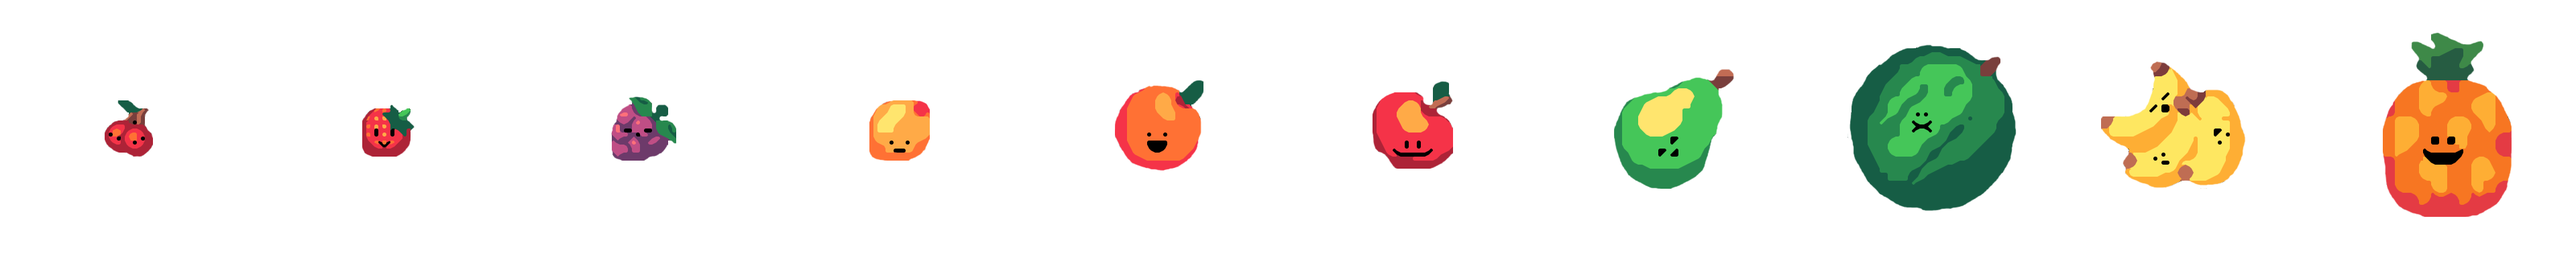
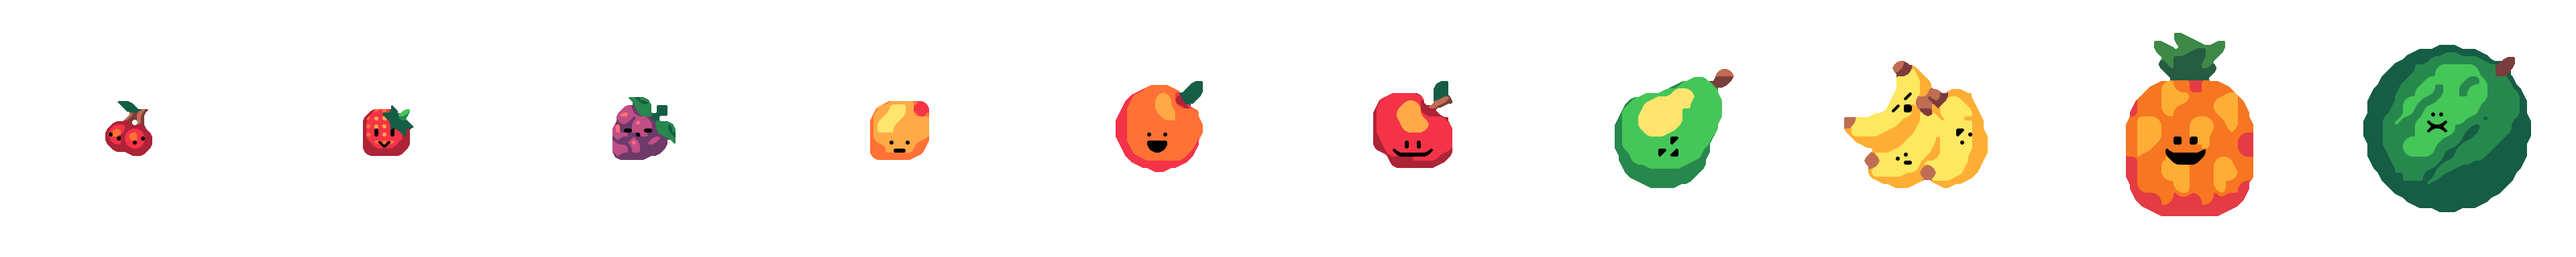
cleanup

Changed region(s): [[0.9062, 0.125, 1.0, 0.8438], [0.8125, 0.125, 0.875, 0.8438], [0.7188, 0.1875, 0.7812, 0.8125]]

diff --git a/apps/typegpu-docs/src/examples/rendering/suika-sdf/sdfGen.ts b/apps/typegpu-docs/src/examples/rendering/suika-sdf/sdfGen.ts
@@ -121,7 +121,7 @@ export async function createAtlases(): Promise<{
   sdfAtlas: ImageBitmap[];
   contours: Float32Array[];
 }> {
-  const fruits = await loadImage('./assets/suika-sdf/fruitsNew.png');
+  const fruits = await loadImage('./assets/suika-sdf/fruits.png');
 
   const tmpCanvas = new OffscreenCanvas(SPRITE_SIZE, SPRITE_SIZE);
   const tmpCtx = tmpCanvas.getContext('2d', { willReadFrequently: true });
